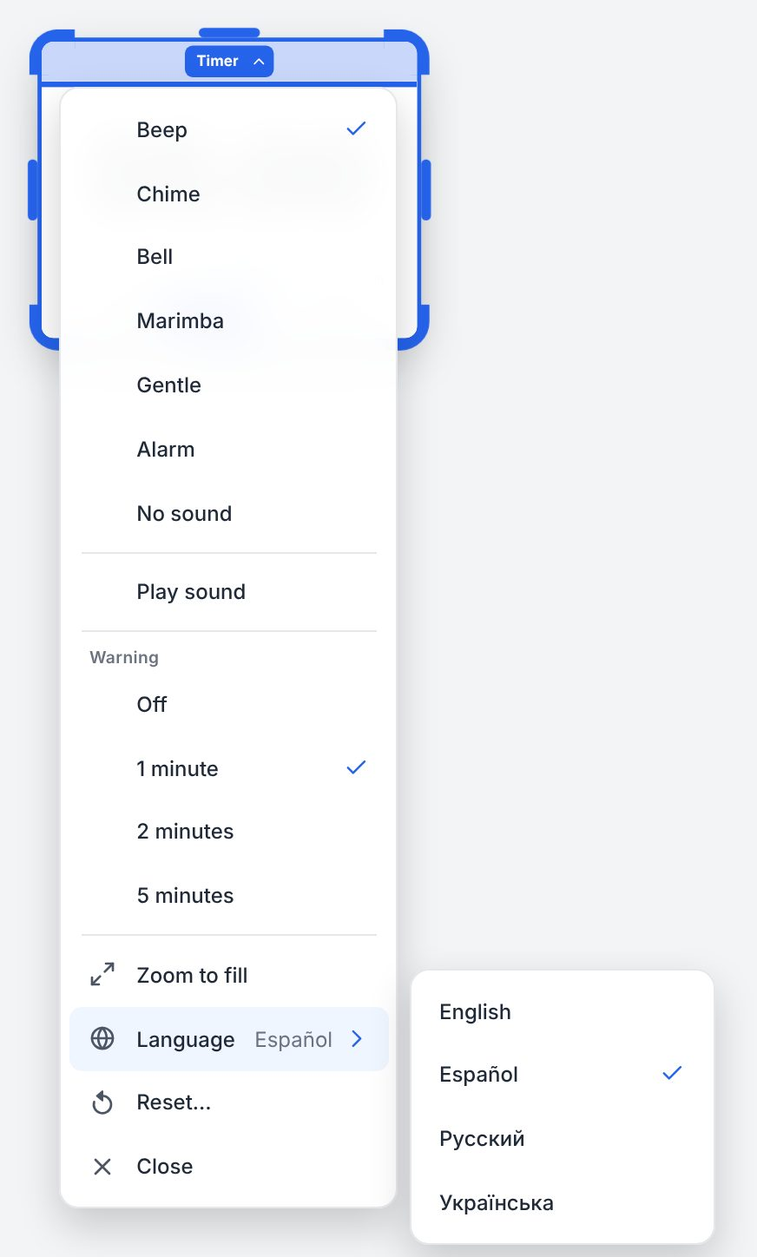
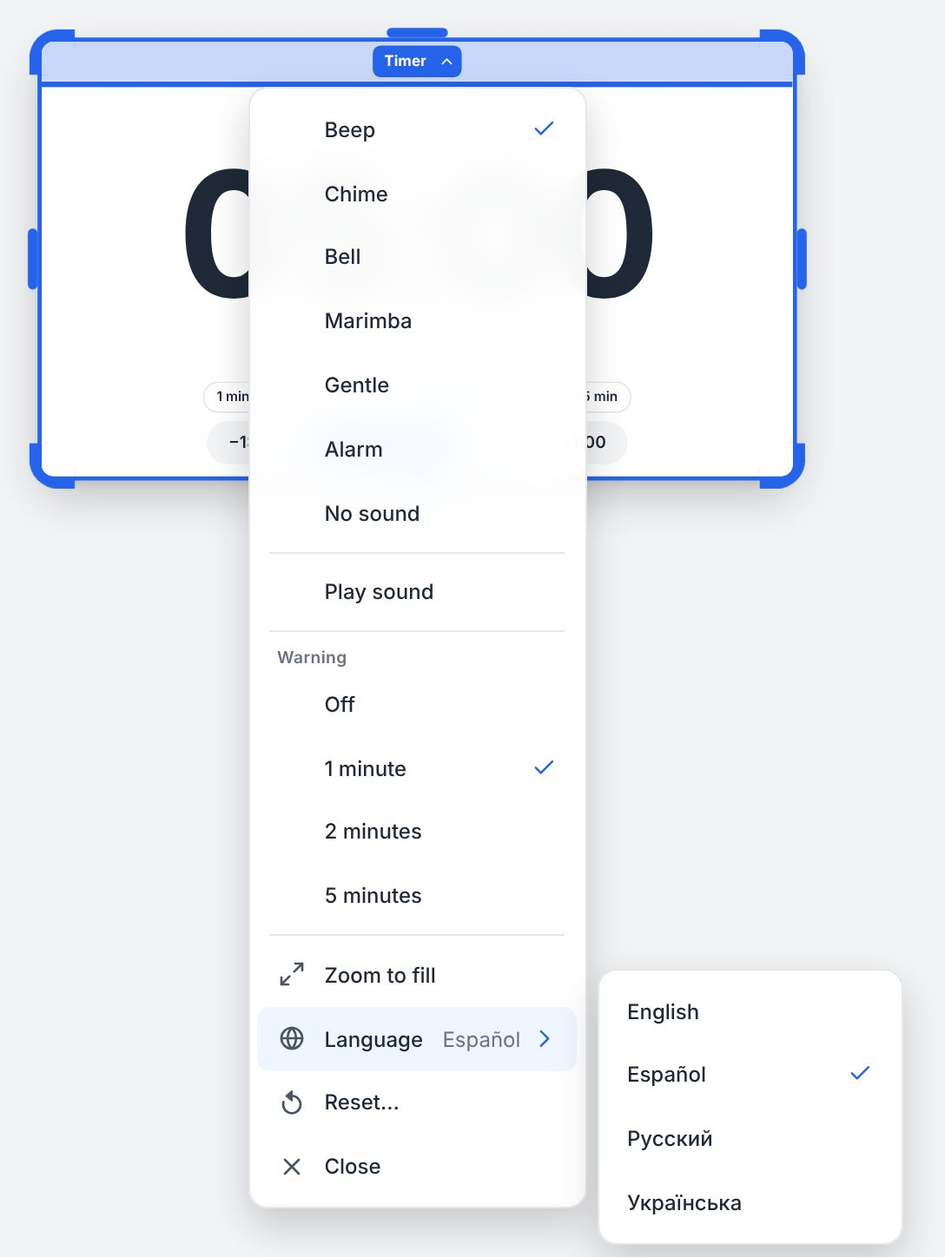
Languages 1b: fixes from the review
A Traffic Light that follows timers keeps a tapped color when its
language changes. It saves the tap as the window closes and drops it
when the window starts again. A language chosen in a window's menu ends
the pseudo language, in Developer mode and the dev window alike.

Toasts that name a deleted page, an imported file, or another device
are kept from the browser's translation. A backup writes the default
widget language as Settings shows it, so a stored value that isn't one
of the four goes out as English. The dev window's fix request for rows
that need more languages now names the rows.

tests/merge.js runs the first five randomized batches about an eighth
fewer times, since the sixth window part makes each run slower. Timed
alone at full scale: 294.5 s at 6dbd9cd, 302.1 s now (+7.6 s). The
build had added about 52 s.

Old tests for Board history's row and Classroom's rows no longer depend
on the new language row. Docs: DATA-FORMAT on Rule 2's fingerprints,
the Traffic Light's over, and a clash copy from 2026.11.27-1; WIDGET-SDK
and the review prompt read right; long lines rewrapped. The Teacher
Guide's language.jpg is retaken with a wider Timer.

Claude-Session: https://claude.ai/code/session_016h6FE3zxBXGFPaABAUFsSL

diff --git a/tests/suites/languages.js b/tests/suites/languages.js
@@ -126,6 +126,17 @@ module.exports = T => {
     const said = await eventually(async () => await B(() => document.querySelector('.win[data-ikey="traffic-light:1"] .sub').textContent) === EN_TL.t('red'));
     ok(said && (await instOf(page, 'traffic-light:1')).language === 'ru' && red === RU_TL.t('red'),
       `a new Traffic Light opens in Русский, its red lamp named ${RU_TL.t('red')}; tapped, its title bar says ${EN_TL.t('red')} (${red})`);
+    // Following the running Timer, a color tapped stays through a switch of language (the window starts again).
+    const lamp = () => inWin(page, 'traffic-light:1', () => (document.querySelector('.lamp.on') || { dataset: {} }).dataset.c || null);
+    await openMenu(page, 'traffic-light:1'); await page.click('#menu [data-act="widget"][data-id="follow"]');
+    const follows = await eventually(async () => await lamp() === 'green');
+    await inWin(page, 'traffic-light:1', () => document.querySelector('.lamp.red').click());
+    const tapped = await eventually(async () => await lamp() === 'red');
+    await choose(page, 'traffic-light:1', 'es');
+    ok(follows && tapped && await eventually(async () => frameName(page, 'traffic-light:1') === 'b21-board:traffic-light:1;es') && await up(page, 'traffic-light:1') &&
+      await eventually(async () => await lamp() === 'red') && (await page.waitForTimeout(1200), await lamp()) === 'red' &&
+      await B(() => document.querySelector('.win[data-ikey="traffic-light:1"] .sub').textContent) === EN_TL.t('red'),
+      `following the running Timer, red tapped stays red when the Traffic Light switches to Español (${follows}, ${tapped}, ${await lamp()})`);
     await B(() => window.__board21.openWidget('notes')); await up(page, 'notes:1');
     await openMenu(page, 'notes:1');
     const notes = { inst: await instOf(page, 'notes:1'), row: await page.locator('#menu [data-act="lang"]').count(), name: frameName(page, 'notes:1') };
@@ -147,8 +158,8 @@ module.exports = T => {
     // 12. Export and import carry each window's language, and the default widget language.
     const exp = await B(async () => ({ full: await window.__board21.buildExport('full'), tpl: await window.__board21.buildExport('template') }));
     const langOf = (e, w, n) => { const i = e.instances.find(x => x.widgetId === w && x.instance === n); return i ? i.language || 'en' : null; };
-    ok(langOf(exp.full, 'timer', 1) === 'uk' && langOf(exp.full, 'traffic-light', 1) === 'ru' && !exp.full.instances.filter(i => i.widgetId === 'notes' || (i.widgetId === 'timer' && i.instance === 2)).some(i => 'language' in i) &&
-      exp.full.widgetLanguage === 'ru' && langOf(exp.tpl, 'timer', 1) === 'uk' && langOf(exp.tpl, 'traffic-light', 1) === 'ru',
+    ok(langOf(exp.full, 'timer', 1) === 'uk' && langOf(exp.full, 'traffic-light', 1) === 'es' && !exp.full.instances.filter(i => i.widgetId === 'notes' || (i.widgetId === 'timer' && i.instance === 2)).some(i => 'language' in i) &&
+      exp.full.widgetLanguage === 'ru' && langOf(exp.tpl, 'timer', 1) === 'uk' && langOf(exp.tpl, 'traffic-light', 1) === 'es',
       `a full backup and a template keep each window’s language (none for English), and the backup the default widget language (${JSON.stringify(exp.full.instances.map(i => [i.widgetId, i.instance, i.language]))}; ${exp.full.widgetLanguage})`);
     await openSettings(page, ['widget-language']); await page.click('#settings [data-act="widget-language"][data-val="en"]');
     await eventually(() => B(() => window.__board21.state.settings.widgetLanguage === 'en')); await page.keyboard.press('Escape'); await page.waitForTimeout(300);
@@ -161,9 +172,13 @@ module.exports = T => {
     await page.waitForTimeout(1200);
     const added = (await B(() => Array.from(window.__board21.state.insts.entries(), ([k, i]) => [k, i.widgetId, i.language || 'en']))).filter(([k]) => !before.has(k));
     const addedLangs = w => added.filter(a => a[1] === w).map(a => a[2]).sort().join();
-    ok(/So is the default widget language\./.test(sub) && addedLangs('timer') === 'en,uk' && addedLangs('traffic-light') === 'ru' && await B(() => window.__board21.state.settings.widgetLanguage) === 'en' &&
+    ok(/So is the default widget language\./.test(sub) && addedLangs('timer') === 'en,uk' && addedLangs('traffic-light') === 'es' && await B(() => window.__board21.state.settings.widgetLanguage) === 'en' &&
       await eventually(async () => added.filter(a => a[2] !== 'en').every(a => frameName(page, a[0]) === `b21-board:${a[0]};${a[2]}`)),
       `Import: Replace says “So is the default widget language.”; Add opens the windows in the file’s languages, and the default stays English (${sub}; ${JSON.stringify(added)})`);
+    // A stored default that isn't one of the four reads as English in Settings, and goes into a backup as English too.
+    const junk = await B(async () => { const s = window.__board21.state, was = s.settings; s.settings = Object.assign({}, was, { widgetLanguage: 'xx' });
+      try { return (await window.__board21.buildExport('full')).widgetLanguage; } finally { s.settings = was; } });
+    ok(junk === 'en', `a stored default widget language that isn’t one of the four is exported as English (${junk})`);
 
     // 13. Locked from another tab with the flyout open: both close. Locked, no Language row. Unlocked with the menu open:
     // the row is back, and the flyout stays closed.
@@ -207,16 +222,34 @@ module.exports = T => {
     ok(fl.sub.r <= fl.menu.l + 0.5 && fl.sub.l >= 0 && fl.sub.t >= 0 && fl.sub.r <= fl.vw && fl.sub.b <= fl.vh, `at the right edge the flyout opens on the menu’s left, fully on screen (${JSON.stringify({ menu: fl.menu, sub: fl.sub })})`);
     await page.screenshot({ path: OUT + 'language-flyout-edge.png' });
     await page.keyboard.press('Escape'); await page.keyboard.press('Escape');
+    // At Size 200%, the menu in two columns: the flyout beside it, as compact and tight as the menu, fully on screen.
+    await B(() => window.__board21.setBoardScale(2)); await page.waitForTimeout(400);
+    await B(() => window.__board21.setRect('timer:1', { x: 10, y: 10, w: 300, h: 250 })); await page.waitForTimeout(400); await up(page, 'timer:1');
+    await openMenu(page, 'timer:1'); await page.click('#menu [data-act="lang"]'); await page.waitForSelector('#menu-sub.open'); await page.waitForTimeout(300);
+    fl = await flyout(page);
+    const cls = await B(() => ['menu', 'menu-sub'].map(id => ['compact', 'tight', 'cols'].filter(c => document.getElementById(id).classList.contains(c)).join(' ')));
+    ok(cls[0] === 'compact tight cols' && cls[1] === 'compact tight' && (fl.sub.l >= fl.menu.r - 0.5 || fl.sub.r <= fl.menu.l + 0.5) && fl.sub.l >= 0 && fl.sub.t >= 0 && fl.sub.r <= fl.vw && fl.sub.b <= fl.vh,
+      `at Size 200%, beside the menu in two columns, as compact and tight, fully on screen (${JSON.stringify({ cls, menu: fl.menu, sub: fl.sub })})`);
+    await page.keyboard.press('Escape'); await page.keyboard.press('Escape');
+    await B(() => window.__board21.setBoardScale(1)); await page.waitForTimeout(300);
 
     // 16. No page errors, and every window found all its words.
     const ws = {};
     for (const ik of await B(() => Array.from(window.__board21.state.wins.keys()))) ws[ik] = await words(page, ik);
     ok(Object.values(ws).every(clean), `every window found all its words (${JSON.stringify(ws)})`);
+
+    // 17. A page deleted: the toast that names it is kept from the browser's translation too.
+    await B(() => window.__board21.pages.create({ end: true, name: 'Spelling' })); await page.waitForTimeout(700);
+    await B(() => { window.__board21.pages.remove(); });
+    await page.locator('#modal.open .btn', { hasText: 'Delete page' }).click();
+    const gone = page.locator('#toasts .toast', { hasText: 'Spelling' });
+    await gone.waitFor({ timeout: 8000 });
+    ok(await gone.getAttribute('translate') === 'no', `translate="no" on the toast that names a deleted page (${(await gone.innerText()).replace(/\s+/g, ' ')})`);
     if (errors.length) ok(false, 'no page errors: ' + errors.join(' | '));
     await ctx.close();
   }],
 
-  ['Languages: every converted widget in the pseudo language, inside the board: no English left, nothing cut off', async (browser) => {
+  ['Languages: every converted widget in the pseudo language, inside the board: no English left, nothing cut off, and a language from its menu ends it', async (browser) => {
     const ctx = await browser.newContext({ viewport: { width: 1366, height: 768 } });
     const page = await ctx.newPage(), errors = [];
     page.on('pageerror', e => errors.push(e.message));
@@ -240,6 +273,14 @@ module.exports = T => {
         ok(a.html === 'en-XA' && !a.audit.missed.length && !a.audit.cut.length && clean(a.words), `${id} at ${a.size} in the pseudo language: no English left, nothing cut off, and no word missing (${JSON.stringify(a)})`);
       }
     }
+    // A language chosen from the window's menu ends the pseudo language: the window starts again in it, and the row says so.
+    await B(() => window.__board21.setRect('timer:1', { x: 120, y: 60, w: 400, h: 330 })); await page.waitForTimeout(300);
+    await choose(page, 'timer:1', 'ru');
+    const back = await eventually(async () => frameName(page, 'timer:1') === 'b21-board:timer:1;ru') && await up(page, 'timer:1');
+    await openMenu(page, 'timer:1');
+    const val = await B(() => document.querySelector('#menu [data-act="lang"] .value').textContent);
+    await page.keyboard.press('Escape');
+    ok(back && val === 'Русский' && (await instOf(page, 'timer:1')).language === 'ru', `Русский chosen in its menu: the Timer leaves the pseudo language for Русский, and its row says so (${frameName(page, 'timer:1')}; ${val})`);
     if (errors.length) ok(false, 'no page or console errors: ' + errors.join(' | '));
     await ctx.close();
   }]

diff --git a/board.js b/board.js
@@ -32,7 +32,7 @@
   // sw.js) and the build, one fingerprint for every file of the release. The page carries the build as well
   // (<html data-build>), and so does the offline copy (sw.js): section 15 keeps them from being mixed.
   const BOARD_VERSION = '2026.11.27-2';
-  const BOARD_BUILD = '90d32643';
+  const BOARD_BUILD = 'fdccfabc';
   const RELEASE = `${BOARD_VERSION} (${BOARD_BUILD})`;   // what Settings → About shows, to read out to IT
   const pageBuild = () => LAB ? BOARD_BUILD : document.documentElement.dataset.build || '';   // (the dev window's page has none)
   const SDK_PROTOCOL = 1;
@@ -2058,8 +2058,9 @@
       // 'b21-board:<ikey>;<language>' in another language. (Set before inserting the frame: a later change doesn't reach
       // the widget's window.name.) The language is decided here, once (frameLang), and hello sends the same: a change
       // starts the page again (Lang.apply). Not for a district app: it's another site's page, with no SDK. (Its address
-      // is the registry's, never saved data.)
-      this.pseudo = this.pseudo || labPseudo;
+      // is the registry's, never saved data.) The dev window's Pseudo reaches a window as it is made: a language chosen
+      // in its menu afterwards ends it (Menu.act).
+      if (this.pseudo === undefined) this.pseudo = labPseudo;
       this.frameLang = Lang.want(this);
       if (!this.widget.external) f.name = 'b21-board:' + this.ikey + (this.frameLang === 'en' ? '' : ';' + this.frameLang);
       if (sealed) {
@@ -3668,10 +3669,12 @@
       switch (act) {
         case 'lang': this.sub = this.sub ? null : 'lang'; this.render(); this.position(); break;
         case 'lang-set': {
-          // Saved with the window (English: no field), which starts again in it. Its own language again: nothing to do.
+          // Saved with the window (English: no field), which starts again in it. Its own language again: nothing to do,
+          // unless the window is in the pseudo language, which a choice ends.
           this.close();
-          if (!w.widget.languages.includes(id) || id === winLang(w)) break;
-          saveInst(w.ikey, withLanguage(w.inst, id));
+          if (!w.widget.languages.includes(id)) break;
+          w.pseudo = false;
+          if (id !== winLang(w)) saveInst(w.ikey, withLanguage(w.inst, id));
           Lang.apply(w);
           break;
         }
@@ -3979,13 +3982,14 @@
       Picker.renderControls();
     },
     // These pages are deleted (their records stay until the Undo is over: see purge). Undo puts them back in their
-    // places, and onUndo then runs (an import of several pages takes its own pages away again).
+    // places, and onUndo then runs (an import of several pages takes its own pages away again). say names a page or a
+    // file: no browser translation.
     drop(list, say, onUndo) {
       const before = this.ids();
       updateSettings(Object.assign({ boards: before.filter(x => !list.includes(x)) }, this.goneWith(list)));
       Picker.renderControls();
       for (const b of list) { clearTimeout(this.purges.get(b)); this.purges.set(b, setTimeout(() => this.purge([b]), PAGE_UNDO_MS + 3000)); }
-      if (say) toast(say, { action: 'Undo', pages: true, timeout: PAGE_UNDO_MS, onAction: () => this.undrop(list, before, onUndo) });
+      if (say) toast(say, { action: 'Undo', pages: true, timeout: PAGE_UNDO_MS, onAction: () => this.undrop(list, before, onUndo), noTranslate: true });
     },
     // Board Sync (section 13d): pages a merge deleted (its transaction listed them in deletedBoards) go as a deletion
     // here does, once their Undo is over; pages a merge brought back don't go after all.
@@ -5784,7 +5788,7 @@
       theme: S.settings.theme,
       accent: accentNow(),   // what the board shows: a key of ACCENTS or a custom '#rrggbb'
       letters: S.settings.letters,   // the text style
-      widgetLanguage: S.settings.widgetLanguage || 'en',   // the default widget language
+      widgetLanguage: Merge.LANGS.includes(S.settings.widgetLanguage) ? S.settings.widgetLanguage : 'en',   // the default widget language, as Settings shows it
       board: Object.assign({ name: board.name, background: board.background || { color: null, pattern: 'none' }, scale: sc, shape: free ? 'free' : '16:9' },
         kind === 'full' && board.uid ? { uid: board.uid } : {},   // which board this is (see section 13b)
         kind === 'full' && typeof board.pos === 'number' && isFinite(board.pos) ? { pos: board.pos } : {}),   // its place among the pages
@@ -6040,7 +6044,7 @@
     const name = file ? file.name.replace(/\.21board$/i, '') : '';
     if (replace) { Pages.drop(was, `Replaced your pages with the ${made.length} in “${name}”.`, () => Pages.discard(made)); return; }
     const say = made.length > 1 ? `Added ${made.length} pages.` : `Opened “${name}” as a new page.`;
-    toast(say, { action: 'Undo', pages: true, timeout: PAGE_UNDO_MS, onAction: async () => { await Pages.discard(made, from); } });
+    toast(say, { action: 'Undo', pages: true, timeout: PAGE_UNDO_MS, onAction: async () => { await Pages.discard(made, from); }, noTranslate: true });
     Picker.renderControls();
   }
 
@@ -10977,7 +10981,7 @@
     pageShown(uid) {
       const q = Link.quietNote(uid);
       if (!q || !q.from || !q.from.length) return;
-      toast(`Changed on ${this.names(q.from)} ${when(q.t || q.at)}.`, { action: 'Board history', timeout: 8000, onAction: () => HistorySheet.open(Settings.side || 'left') });
+      toast(`Changed on ${this.names(q.from)} ${when(q.t || q.at)}.`, { action: 'Board history', timeout: 8000, onAction: () => HistorySheet.open(Settings.side || 'left'), noTranslate: true });
     }
   };
 

diff --git a/docs/teacher-guide/page-src.html b/docs/teacher-guide/page-src.html
@@ -426,7 +426,7 @@ footer.end b { color: var(--ink); }
     <div class="card"><h3>Move, resize, fill</h3><img src="shots/menu.jpg" width="1028" height="1116" loading="lazy" alt="The Notes window menu open, with themes, paper colors, Zoom to fill, Reset…, and Close."><ul><li>Tap a window to select it. Drag to move it, and pull a corner to resize.</li><li>Double-tap the title bar to fill the board.</li><li>Tap the name ⌄ for the window menu.</li><li>Close keeps what’s inside. Open the widget again and it’s all there.</li></ul></div>
     <div class="card"><h3>A page for each subject</h3><img src="shots/pages.jpg" width="1026" height="914" loading="lazy" alt="The Widget Picker showing Page 2 of 3, with the pages Morning, Math, and Science."><ul><li>Tap ‹ Page › at the end of the Widget Picker.</li><li>On the last page, tap + to add one.</li><li>Tap Page, then Rename this page…</li><li>Try Morning, Math, and Science, or one page per class period.</li></ul></div>
     <div class="card wide"><div class="txt"><h3>Letters made for young readers</h3><p>Settings › Appearance › Text style changes the letters on the board and in most widgets.</p><ul><li><b>Early readers</b> has an a and a g shaped the way children write them.</li><li><b>Easier to read</b> uses Atkinson Hyperlegible, made for people with low vision. I, l, and 1 look different.</li></ul></div><img src="shots/textstyle.jpg" width="2732" height="1536" loading="lazy" alt="Settings with Early readers chosen, and a note in the Early readers letters saying We read a big book."></div>
-    <div class="card wide"><div class="txt"><h3>Four languages</h3><p>The Timer and Traffic Light come in English, Spanish, Russian, and Ukrainian. More widgets are coming.</p><ul><li>Tap the name ⌄, then Language. Only that window changes.</li><li>Settings › Classroom › Default widget language sets the language new windows start in.</li><li>A window you open again keeps its own language.</li><li>Title bars and menus stay in English. Nothing goes online to translate.</li></ul></div><img class="tall" src="shots/language.jpg" width="872" height="1448" loading="lazy" alt="A Timer in Spanish with its window menu open. Language is open beside it, with English, Español, Русский, and Українська."></div>
+    <div class="card wide"><div class="txt"><h3>Four languages</h3><p>The Timer and Traffic Light come in English, Spanish, Russian, and Ukrainian. More widgets are coming.</p><ul><li>Tap the name ⌄, then Language. Only that window changes.</li><li>Settings › Classroom › Default widget language sets the language new windows start in.</li><li>A window you open again keeps its own language.</li><li>Title bars and menus stay in English. Nothing goes online to translate.</li></ul></div><img class="tall" src="shots/language.jpg" width="1088" height="1448" loading="lazy" alt="A Timer in Spanish with its window menu open. Language is open beside it, with English, Español, Русский, and Українська."></div>
     <div class="card wide"><div class="txt"><h3>Colors and photos</h3><p>Settings › Appearance sets how your board looks.</p><ul><li><b>Background</b> gives each page its own color. Choose one of ten, or tap Custom… for any color.</li><li><b>Photo…</b> puts a picture behind the board. Fade softens it so the windows stand out.</li><li><b>Accent color</b> tints the title bars and buttons. Pick one of six, or Custom… for your school colors.</li><li>Set <b>Theme</b> to Dark for lights-off moments.</li><li>Back row can’t read it? Settings › Advanced › Size of windows and menus, then tap +. It sets the page you’re on.</li></ul></div><img src="shots/appearance.jpg" width="2732" height="1536" loading="lazy" alt="Settings open to Appearance beside a board with a photo of green hills behind it. Photo and the Purple accent color are chosen, and the title bars are purple."></div>
     <div class="card"><h3>Lock the board</h3><p>Tap [W], then [L] in its bottom row, and choose.</p><img src="shots/lock.jpg" width="784" height="622" loading="lazy" alt="Lock the board, with the choices Lock everything and Widgets still work."><ul><li><b>Lock everything</b> for a video or a test. Nothing responds to a tap.</li><li><b>Widgets still work</b> lets students start a Timer, roll the Dice, and type in Notes. Windows stay put.</li><li>To unlock, hold [L] in a top corner for 2 seconds.</li><li>It’s not a password. A tap on [L] says “Hold to unlock.”</li></ul></div>
     <div class="card"><h3>Stay awake</h3><p>Keeps the screen from dimming during a long reading block.</p><ul><li>Settings › Classroom › Stay awake.</li><li>Turn it off when you step away, since a screen that never sleeps never locks.</li></ul></div>

diff --git a/tests/suites/board-history.js b/tests/suites/board-history.js
@@ -77,14 +77,11 @@ module.exports = T => {
     await fillNote(note(), 'scribble'); await page.waitForTimeout(400);
     await H(() => window.__board21.deleteInstance('dice:1')); await page.waitForTimeout(1500);
     await H(() => window.__board21.closeWin('timer:1')); await page.waitForTimeout(800);
-    // Find it in Board history (Settings → Classroom, the row after Default widget language: Go back to an earlier version).
+    // Find it in Board history (Settings → Classroom: Go back to an earlier version).
     await openSettings(page);
     const goBack = await page.evaluate(() => { const b = document.querySelector('#settings [data-act="hist-open"]'), r = b.closest('.row'), h = [...document.querySelectorAll('#settings h3')].filter(e => e.compareDocumentPosition(r) & Node.DOCUMENT_POSITION_FOLLOWING).pop();
-      const rows = []; for (let e = h.nextElementSibling; e && e.tagName !== 'H3'; e = e.nextElementSibling) if (e.matches('.row')) rows.push(e);
-      const at = rows.indexOf(r);
-      return { section: h.textContent, first: at, before: at > 0 ? rows[at - 1].querySelector('.lbl').textContent : null, label: r.querySelector('.lbl').textContent, plain: !b.classList.contains('primary') }; });
-    ok(goBack.section === 'Classroom' && goBack.first === 1 && goBack.before === 'Default widget language' && goBack.label === 'Go back to an earlier version' && goBack.plain,
-      `Settings → Classroom → “Go back to an earlier version” (Board history…) is the second row, after Default widget language (${JSON.stringify(goBack)})`);
+      return { section: h.textContent, label: r.querySelector('.lbl').textContent, plain: !b.classList.contains('primary') }; });
+    ok(goBack.section === 'Classroom' && goBack.label === 'Go back to an earlier version' && goBack.plain, `Settings → Classroom → “Go back to an earlier version” (Board history…) (${JSON.stringify(goBack)})`);
     await page.click('#settings [data-act="hist-open"]'); await page.waitForTimeout(1200);
     ok(await page.locator('#history.open .hist-row').count() >= 5, 'the Board history sheet lists the versions');
     await page.screenshot({ path: OUT + '80-history-sheet.png' });

diff --git a/tests/suites/lock-and-kiosk.js b/tests/suites/lock-and-kiosk.js
@@ -588,13 +588,13 @@ module.exports = T => {
     ok(await B(() => document.body.classList.contains('dark') && window.__board21.state.settings.theme === 'dark'), 'Settings › Appearance › Theme: Dark turns the board dark');
     await setTheme(page, 'system');
     ok(await B(() => !document.body.classList.contains('dark') && window.__board21.state.settings.theme === 'system'), 'and Auto brings it back');
-    // ---- No Lock in Settings: Classroom keeps the Default widget language, Board history, Close all windows, and Stay awake.
+    // ---- No Lock in Settings: Classroom keeps Board history, Close all windows and Stay awake.
     await openSettings(page);
     const classroom = await B(() => { const h = Array.from(document.querySelectorAll('#settings .sheet-body > h3')).find(e => e.textContent === 'Classroom'), rows = [];
       for (let e = h && h.nextElementSibling; e && e.tagName !== 'H3'; e = e.nextElementSibling) rows.push(Array.from(e.querySelectorAll('[data-act]')).map(b => b.dataset.act).join('+') || e.className);
       return { rows, lock: !!document.querySelector('#settings [data-act="lock-windows"]'), text: /Lock windows|This device only/.test(document.getElementById('settings').textContent) }; });
-    ok(!classroom.lock && !classroom.text && classroom.rows.join() === 'row disc,widget-language+widget-language+widget-language+widget-language,hist-open,close-all,awake',
-      `Settings › Classroom: no “Lock windows in place”, only the Default widget language (its row and its four cards), Board history, Close all windows, and Stay awake (${classroom.rows.join(', ')})`);
+    ok(!classroom.lock && !classroom.text && classroom.rows.filter(r => /^(hist-open|close-all|awake)$/.test(r)).join() === 'hist-open,close-all,awake',
+      `Settings › Classroom: no “Lock windows in place”; Board history, Close all windows, and Stay awake are there (${classroom.rows.join(', ')})`);
     await page.keyboard.press('Escape'); await page.waitForTimeout(200);
 
     // ---- The dialog: a tap on Lock closes the Widget Picker and asks how.

diff --git a/tests/suites/sdk.js b/tests/suites/sdk.js
@@ -789,6 +789,16 @@ module.exports = T => {
     ok(labPaste.open && !labPaste.paste, `the test board’s Widget Picker has no Paste (${JSON.stringify(labPaste)})`);
     await page.evaluate(() => document.getElementById('b21-dev').shadowRoot.querySelector('[data-act="edit"]').click()); await page.waitForTimeout(300);
     ok(await page.evaluate(() => !document.getElementById('editor').hidden && !document.getElementById('b21-dev')), '"Edit code" goes back to the code');
+    // A words table row without Spanish and Russian: Checks says so, and Copy fix request names the row and what it lacks.
+    await page.evaluate(() => { window.__copied = []; Object.defineProperty(navigator, 'clipboard', { configurable: true, value: { writeText: t => { window.__copied.push(t); return Promise.resolve(); } } }); });
+    await page.fill('#code', (await page.inputValue('#code')).replace(/\s*es: 'Sumar uno',/, '').replace(/\s*ru: 'Прибавить один',/, ''));
+    await page.click('#run'); await page.waitForTimeout(3000);
+    await page.locator('#b21-dev [data-drawer="checks"]').click(); await page.waitForTimeout(300);
+    const rows = page.locator('#b21-dev .chk', { hasText: 'row needs more languages' });
+    if (await rows.count()) { await rows.first().locator('[data-act="copy-fix"]').click(); await page.waitForTimeout(200); }
+    const rowFix = await page.evaluate(() => window.__copied[window.__copied.length - 1] || '');
+    ok(/^Please fix this in my 21Board widget: 1 row needs more languages\. Add the missing words to the words table, in English, Spanish, Russian, and Ukrainian\. add: Spanish and Russian\.$/.test(rowFix),
+      `Copy fix request for a row that needs more languages names the row and the languages it lacks (${rowFix || 'no such check'})`);
 
     // ---- The board shell is up to date with index.html.
     let built = true;

diff --git a/widgets/traffic-light/index.html b/widgets/traffic-light/index.html
@@ -34,7 +34,9 @@
     <button class="lamp green" data-c="green" aria-label="Green" data-t-aria-label="green"></button>
   </div>
 <script>
-  // Content: { active: 'red' | 'yellow' | 'green' | null }, the color the teacher chose.
+  // Content: { active: 'red' | 'yellow' | 'green' | null }, the color the teacher chose. A tap while following is also
+  //   kept as the window closes, as over (see tapped), so it still shows when the window starts again (a language
+  //   switch starts it again). The window drops over once it has it.
   // Config:  { follow: true } while Follow timers is on: the light shows the color of the Timer or 21Timer on the page
   //   that is closest to ending (the board's 'timers'). That color is worked out here, the same in every tab and on
   //   every device, from what the board sends. It is never saved.
@@ -135,8 +137,11 @@
   });
   Board21.on('config', c => { config = readConfig(c); render(); });
   Board21.on('timers', l => { timers = readTimers(l); render(); });
+  Board21.on('beforeclose', () => { if (following() && tapped !== null) Board21.save(Object.assign({}, state, { over: tapped })); });
   Board21.ready().then(ctx => {
     state = readState(ctx.data); config = readConfig(ctx.config); timers = readTimers(ctx.timers);
+    // (a tap kept as the window closed: it shows until the followed color changes, as before)
+    if (ctx.data && typeof ctx.data.over === 'string') { if (following()) tapped = ctx.data.over; Board21.save(state); }
     render();
     setInterval(render, 1000);
   });

diff --git a/tests/merge.js b/tests/merge.js
@@ -2431,7 +2431,10 @@ async function randomized(scale) {
   // (and runs with devices still on 2026.11.16-4, updated as they go, then one leaving for good (variant.old, see run).
   // Such runs found that a left device's file stayed for good while every other device kept its own text style: with 3
   // devices, seeds 15, 101, 109, 183, 289, 358 and 581.)
-  const batches = [[2000, 3, 150], [500, 5, 300], [1200, 3, 150, { atOnce: 0.6 }], [500, 3, 150, { atOnce: 0.25 }], [300, 5, 300, { atOnce: 0.6 }], [100, 5, 300, { atOnce: 0.25 }],
+  // (2026.11.27-2 added a sixth window part, which every round hashes and versions, and devices on 2026.11.27-1: about
+  // a sixth more time per run. So the first five batches run about an eighth fewer runs than before, 2000, 500, 1200,
+  // 500, and 300, and the whole run takes about as long as it did.)
+  const batches = [[1750, 3, 150], [440, 5, 300], [1050, 3, 150, { atOnce: 0.6 }], [440, 3, 150, { atOnce: 0.25 }], [260, 5, 300, { atOnce: 0.6 }], [100, 5, 300, { atOnce: 0.25 }],
     [600, 3, 150, { old: 0.7, atOnce: 0.3 }], [100, 5, 300, { old: 0.6, atOnce: 0.25 }]];
   const what = v => (v && v.old ? `, some devices on 2026.11.16-4 until a step of their own (${v.old}), and one then leaving for good` : '') + (v && v.atOnce ? `, two or more setting up the folder at once (${v.atOnce})` : '');
   for (const [n, nDev, steps, variant] of batches) {

diff --git a/sdk/board21-dev.js b/sdk/board21-dev.js
@@ -219,7 +219,8 @@
       add('err', 'No "languages" for this widget', 'Without it, the window has no Language row and stays English.', 'Add "languages": ["en", "es", "ru", "uk"] to the manifest block and to its registry entry.');
     if (Array.prototype.some.call(scripts, function (n) { return /(^|\/)words\.js([?#]|$)/.test(n.getAttribute('src') || ''); }) && !info.widget.inRepo)
       add('warn', 'words.js won’t load in an uploaded file', 'A widget you upload is one file. It can’t load others.', 'Put the words table in the page, right after the manifest: <script>Board21.words({ … });</script>');
-    (words || []).forEach(function (w) { add(w.level, w.title, w.detail, 'Add the missing words to the words table, in English, Spanish, Russian, and Ukrainian.'); });
+    // (a detail that lists rows, "go: Spanish. stop: Ukrainian.", goes in the fix request too: the title doesn't name them)
+    (words || []).forEach(function (w) { add(w.level, w.title, w.detail, 'Add the missing words to the words table, in English, Spanish, Russian, and Ukrainian.' + (/^[\w.]+:/.test(w.detail) ? ' ' + w.detail : '')); });
     if (lastMenu) {
       var items = lastMenu.items || [];
       if (items.length > 24) add('warn', 'The menu has ' + items.length + ' items', 'The board shows the first 24.', 'Keep the window menu to 24 items or fewer.');

diff --git a/sw.js b/sw.js
@@ -14,13 +14,13 @@
 const VERSION = '2026.11.27-2';
 // Written by tools/release.js, never by hand. BUILD: one fingerprint for this file and everything in FILES.
 // FILES: every file of the offline copy, with its own fingerprint.
-const BUILD = '90d32643';
+const BUILD = 'fdccfabc';
 const FILES = {
-  './': 'a815ca73b3da3d1e',
-  'index.html': 'a815ca73b3da3d1e',
-  'board.js': '2104751c09e287d8',
+  './': '57ada3b9278e9168',
+  'index.html': '57ada3b9278e9168',
+  'board.js': 'bd605c8dbe47b341',
   'sdk/board21.js': '08906190c5acd9e7',
-  'sdk/board21-dev.js': 'ec785ecbfaa7430d',
+  'sdk/board21-dev.js': '8a581bec97559eaf',
   'sdk/dev/board-shell.js': '49c875caff4259fa',
   'sdk/lab.html': '0f64e592aad54c02',
   'widgets/registry.js': '0bc966acbae82c8b',
@@ -64,7 +64,7 @@ const FILES = {
   'widgets/first-then-board/index.html': '94c34fadb9dadeaf',
   'widgets/zones-check-in/index.html': '9264fcdf821b3af2',
   'widgets/dice/index.html': '7e6e22547b32875e',
-  'widgets/traffic-light/index.html': '16a8b931b0dc6d66',
+  'widgets/traffic-light/index.html': 'aef3d9ed351ee704',
   'widgets/traffic-light/words.js': 'fdb19ea10bfd8c2b',
   'widgets/youtube-player/index.html': '176df55af520e59f',
   'widgets/youtube-player/video-links.js': '85e2d36eb6f5b8b4',

diff --git a/tools/release-workflow.js b/tools/release-workflow.js
@@ -65,7 +65,7 @@ Strings: ${JSON.stringify(built.strings)}
 Tests changed: ${JSON.stringify(built.tests_changed)}
 
 ${r.lens}
-Also check every new or changed string against ${CLAUDE_MD} ("Voice") and ("Languages"): window words in all four languages, docs/GLOSSARY.md's words first, that the Teacher Guide says and shows what the board now does, and that the tests follow docs/RELEASING.md ("Writing tests"): flag checks the change doesn't need.
+Also check every new or changed string against ${CLAUDE_MD}, "Voice" and "Languages": window words in all four languages, docs/GLOSSARY.md's words first. Check that the Teacher Guide says and shows what the board now does, and that the tests follow docs/RELEASING.md ("Writing tests"): flag checks the change doesn't need.
 Report only problems you reproduced or can show from the code or docs, each with evidence (scripts and logs next to your worktree) and a concrete fix.`, { label: 'review-' + r.key, phase: 'Review', schema: REVIEW_SCHEMA })))
 const findings = reviews.flatMap((r, i) => r ? (r.findings || []).map(f => ({ ...f, from: REVIEWS[i].key })) : [])
 const lost = REVIEWS.filter((r, i) => !reviews[i]).map(r => r.key)

diff --git a/docs/teacher-guide/work/scenes.js b/docs/teacher-guide/work/scenes.js
@@ -424,12 +424,13 @@ SCENES.menu = async () => {
   await ctx.close();
 };
 
-// ---- 5b. language.jpg: a Timer switched to Español through its menu, at the size it opens at with room on its right,
-// its menu open again with Language tapped and the four languages beside it
+// ---- 5b. language.jpg: a Timer switched to Español through its menu, wide enough that its digits and Spanish chips
+// show on both sides of the menu, with room on its right; its menu open again with Language tapped and the four
+// languages beside it
 SCENES.language = async () => {
   const { ctx, p } = await newBoard();
   const ik = await addWin(p, 'timer');
-  await setRect(p, ik, { x: 560, y: 120, w: 380, h: 300 });
+  await setRect(p, ik, { x: 440, y: 120, w: 760, h: 440 });
   await wait(p, 800);
   await deselect(p);
   await p.click(`.win[data-ikey="${ik}"] .win-label`); await wait(p, 400);
